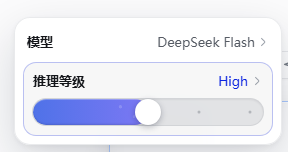
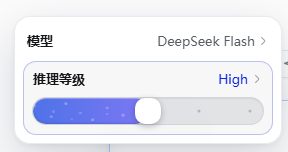
feat(chat): 推理滑杆加入动态星场，满档提示自动淡出
- 两层白色光点星场以相同速度向左漂移（平铺 112/168px、0.7/1.05s 循环），第二层叠加明暗闪烁
- 星场强度随档位渐显：Low 不可见，High 隐约，Max/Ultra 密集，和视频一致
- 满档提示只显示约 1.6 秒，再交叉淡出回「推理等级 Ultra」；离开满档立即收起
- 白色滑块改为连续圆角方形（squircle），贴合视频里的形状
- 同步 README 与文档截图

diff --git a/src/components/chatInput/ModelLevelPicker.module.css b/src/components/chatInput/ModelLevelPicker.module.css
@@ -202,13 +202,42 @@ body[data-ds-dark-theme] .card[data-max] {
 }
 
 .cardHead {
+  position: relative;
+  height: 20px;
+  margin-bottom: 7px;
+  padding: 0 1px;
+}
+
+.headNormal {
   display: flex;
   align-items: center;
   justify-content: space-between;
   gap: 10px;
-  height: 20px;
-  margin-bottom: 7px;
-  padding: 0 1px;
+  width: 100%;
+  transition: opacity 0.18s ease;
+}
+
+.headHint {
+  position: absolute;
+  inset: 0;
+  display: flex;
+  align-items: center;
+  justify-content: center;
+  color: var(--accent);
+  font-size: 13px;
+  line-height: 20px;
+  font-weight: 500;
+  opacity: 0;
+  transition: opacity 0.18s ease;
+  pointer-events: none;
+}
+
+.cardHead[data-hint] .headNormal {
+  opacity: 0;
+}
+
+.cardHead[data-hint] .headHint {
+  opacity: 1;
 }
 
 .levelRight {
@@ -227,17 +256,6 @@ body[data-ds-dark-theme] .card[data-max] {
 /* 关闭档用中性色，避免一个蓝色「关闭」显得像可点击状态 */
 .panel:not([data-level]) .levelValue {
   color: var(--dsw-alias-label-tertiary);
-}
-
-/* 满档时标题被这句提示替换，和视频一致 */
-.warning {
-  height: 20px;
-  margin-bottom: 7px;
-  color: var(--accent);
-  font-size: 13px;
-  line-height: 20px;
-  font-weight: 500;
-  text-align: center;
 }
 
 /* ---------- 滑杆 ---------- */
@@ -291,28 +309,75 @@ body[data-ds-dark-theme] .track {
   );
 }
 
-/* 高档位在紫色段浮出细小的白色光点 */
+/* 高档位在紫色段浮出细小的白色光点：两层星场向左漂移，并各自明暗闪烁 */
 .stars {
   position: absolute;
   inset: 0;
   border-radius: inherit;
-  opacity: max(0, calc((var(--p) - 0.4) * 1.8));
+  opacity: max(0, calc((var(--p) - 0.3) * 1.7));
   clip-path: inset(
     0 calc(100% - 13px - (100% - 26px) * var(--p)) 0 0 round 999px
   );
-  background-image:
-    radial-gradient(circle at 38% 30%, rgba(255, 255, 255, 0.95) 0 1.3px, transparent 2px),
-    radial-gradient(circle at 44% 68%, rgba(255, 255, 255, 0.7) 0 1.1px, transparent 1.8px),
-    radial-gradient(circle at 51% 22%, rgba(255, 255, 255, 0.85) 0 1.5px, transparent 2.2px),
-    radial-gradient(circle at 57% 58%, rgba(255, 255, 255, 0.6) 0 1.1px, transparent 1.8px),
-    radial-gradient(circle at 63% 80%, rgba(255, 255, 255, 0.9) 0 1.4px, transparent 2.1px),
-    radial-gradient(circle at 69% 36%, rgba(255, 255, 255, 0.7) 0 1.3px, transparent 2px),
-    radial-gradient(circle at 75% 62%, rgba(255, 255, 255, 0.95) 0 1.6px, transparent 2.3px),
-    radial-gradient(circle at 82% 26%, rgba(255, 255, 255, 0.6) 0 1.1px, transparent 1.8px),
-    radial-gradient(circle at 88% 54%, rgba(255, 255, 255, 0.85) 0 1.4px, transparent 2.1px),
-    radial-gradient(circle at 94% 74%, rgba(255, 255, 255, 0.7) 0 1.3px, transparent 2px);
-  background-repeat: no-repeat;
   pointer-events: none;
+}
+
+.starTile,
+.starTileAlt {
+  position: absolute;
+  top: 0;
+  left: 0;
+  width: 200%;
+  height: 100%;
+  background-repeat: repeat-x;
+  will-change: transform;
+}
+
+.starTile {
+  --tile: 112px;
+  background-image:
+    radial-gradient(circle at 6% 30%, rgba(255, 255, 255, 0.95) 0 1.3px, transparent 1.9px),
+    radial-gradient(circle at 21% 72%, rgba(255, 255, 255, 0.8) 0 1px, transparent 1.7px),
+    radial-gradient(circle at 34% 22%, rgba(255, 255, 255, 0.9) 0 1.2px, transparent 1.8px),
+    radial-gradient(circle at 47% 58%, rgba(255, 255, 255, 0.7) 0 0.9px, transparent 1.6px),
+    radial-gradient(circle at 58% 84%, rgba(255, 255, 255, 0.95) 0 1.1px, transparent 1.8px),
+    radial-gradient(circle at 71% 38%, rgba(255, 255, 255, 0.75) 0 1px, transparent 1.7px),
+    radial-gradient(circle at 85% 66%, rgba(255, 255, 255, 0.9) 0 1.2px, transparent 1.9px);
+  background-size: 112px 100%;
+  animation: starDrift 0.7s linear infinite;
+}
+
+.starTileAlt {
+  --tile: 168px;
+  background-image:
+    radial-gradient(circle at 14% 62%, rgba(255, 255, 255, 0.6) 0 0.9px, transparent 1.6px),
+    radial-gradient(circle at 31% 34%, rgba(255, 255, 255, 0.55) 0 0.8px, transparent 1.5px),
+    radial-gradient(circle at 52% 78%, rgba(255, 255, 255, 0.65) 0 1px, transparent 1.7px),
+    radial-gradient(circle at 68% 22%, rgba(255, 255, 255, 0.6) 0 0.9px, transparent 1.6px),
+    radial-gradient(circle at 82% 52%, rgba(255, 255, 255, 0.7) 0 1.1px, transparent 1.8px),
+    radial-gradient(circle at 93% 82%, rgba(255, 255, 255, 0.55) 0 0.8px, transparent 1.5px);
+  background-size: 168px 100%;
+  animation:
+    starDrift 1.05s linear infinite,
+    starTwinkle 2.8s ease-in-out -1.1s infinite;
+}
+
+@keyframes starDrift {
+  from {
+    transform: translateX(0);
+  }
+  to {
+    transform: translateX(calc(-1 * var(--tile)));
+  }
+}
+
+@keyframes starTwinkle {
+  0%,
+  100% {
+    opacity: 0.4;
+  }
+  50% {
+    opacity: 1;
+  }
 }
 
 /* 未到达的档位用小圆点标出来 */
@@ -336,7 +401,8 @@ body[data-ds-dark-theme] .dot {
   left: calc(13px + (100% - 26px) * var(--p));
   width: 26px;
   height: 26px;
-  border-radius: 50%;
+  /* 视频里是连续圆角的方形滑块，不是正圆 */
+  border-radius: 38%;
   background: #ffffff;
   box-shadow:
     0 2px 6px rgba(15, 23, 42, 0.28),

diff --git a/src/components/chatInput/ModelLevelPicker.tsx b/src/components/chatInput/ModelLevelPicker.tsx
@@ -60,6 +60,8 @@ export const ModelLevelPicker = () => {
   const [modelOpen, setModelOpen] = useState(false)
   const [models, setModels] = useState<ModelOption[]>(() => mergeModels(readCachedModels() ?? []))
   const [loading, setLoading] = useState(false)
+  // 满档提示只出现一会儿，然后淡回正常标题（和视频一致）
+  const [hint, setHint] = useState(false)
   const fetched = useRef(false)
   // 面板只要一层磨砂：跟着输入框透出背景，但不做折射贴图
   const glassRef = useGlassAttach({ tier: 'frost', tint: 0.12 })
@@ -117,6 +119,16 @@ export const ModelLevelPicker = () => {
       setModelOpen(false)
     }
   }, [open])
+
+  useEffect(() => {
+    if (effort < EFFORT_LEVELS) {
+      setHint(false)
+      return
+    }
+    setHint(true)
+    const timer = window.setTimeout(() => setHint(false), 1600)
+    return () => window.clearTimeout(timer)
+  }, [effort])
 
   const sourceText = useMemo(() => {
     if (loading) {
@@ -235,10 +247,8 @@ export const ModelLevelPicker = () => {
                     data-glow={effort > 0 || undefined}
                     data-max={maxed || undefined}
                   >
-                    {maxed ? (
-                      <div className={styles.warning}>{t('thinkingMaxWarning')}</div>
-                    ) : (
-                      <div className={styles.cardHead}>
+                    <div className={styles.cardHead} data-hint={hint || undefined}>
+                      <div className={styles.headNormal}>
                         <span className={styles.rowLabel}>{t('modelLevelReasoning')}</span>
                         <span className={styles.levelRight}>
                           <span className={styles.levelValue}>{t(LEVEL_KEYS[effort])}</span>
@@ -247,12 +257,18 @@ export const ModelLevelPicker = () => {
                           </span>
                         </span>
                       </div>
-                    )}
+                      <span className={styles.headHint} aria-live="polite">
+                        {t('thinkingMaxWarning')}
+                      </span>
+                    </div>
 
                     <div className={styles.slider} style={style}>
                       <div className={styles.track}>
                         <span className={styles.fill} />
-                        <span className={styles.stars} />
+                        <span className={styles.stars} aria-hidden>
+                          <span className={styles.starTile} />
+                          <span className={styles.starTileAlt} />
+                        </span>
                         {STEPS.map((step) =>
                           step > effort ? (
                             <span

diff --git a/README.md b/README.md
@@ -348,7 +348,7 @@ google-chrome --pack-extension=extension --pack-extension-key=dist-ext/agent-bri
 
 ![模型选择](docs/screenshots/model-picker.png)
 
-**思考强度**有 0-4 五档：关闭 / Low / High / Max / Ultra，全部收在同一个面板里。卡片里是一条厚胶囊滑杆，渐变色逐档偏紫——Low 是纯蓝、Ultra 是深紫，未到达的档位用小圆点标出；拖到最高档时标题行会被「更快消耗使用额度」替换，卡片边框随之亮起。档位会真实写进请求：
+**思考强度**有 0-4 五档：关闭 / Low / High / Max / Ultra，全部收在同一个面板里。卡片里是一条厚胶囊滑杆，渐变色逐档偏紫——Low 是纯蓝、Ultra 是深紫；未到达的档位用小圆点标出，高档位还会浮出向左漂移、明暗闪烁的白色光点。拖到最高档时，标题行会短暂变成「更快消耗使用额度」，约 1.5 秒后淡回「推理等级 Ultra」，卡片边框则保持亮起。档位会真实写进请求：
 
 ```json
 {
